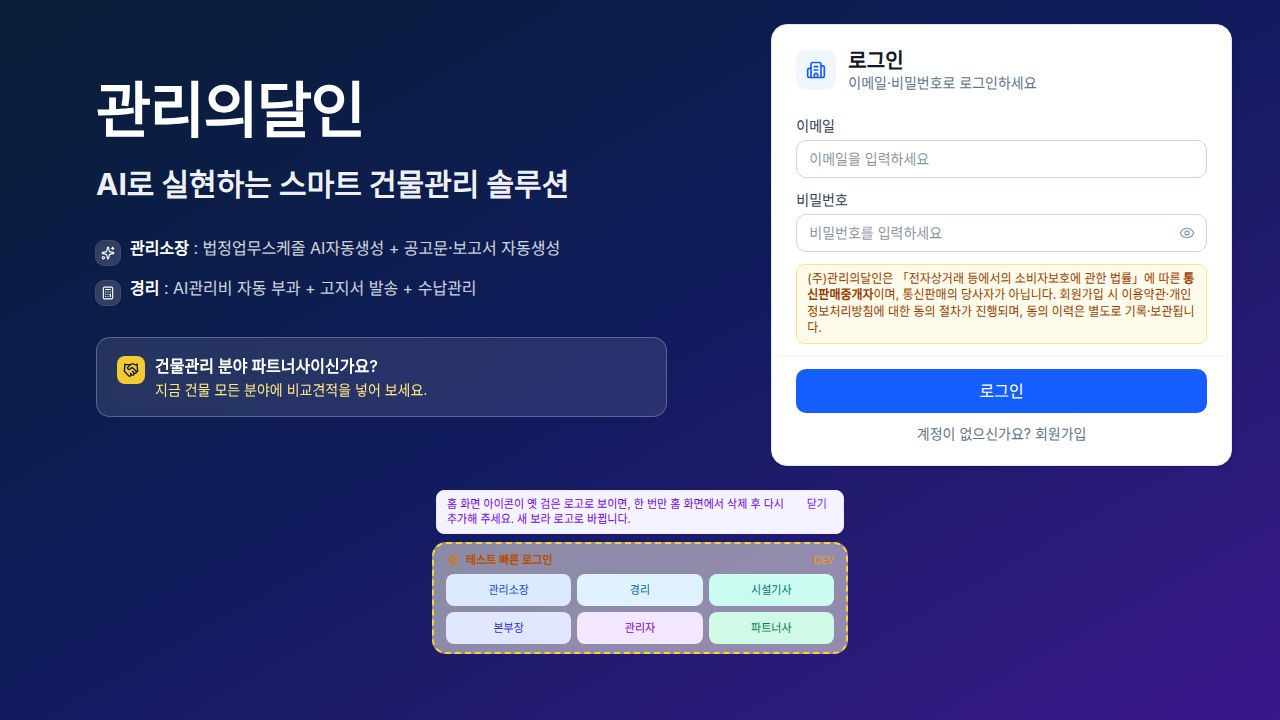
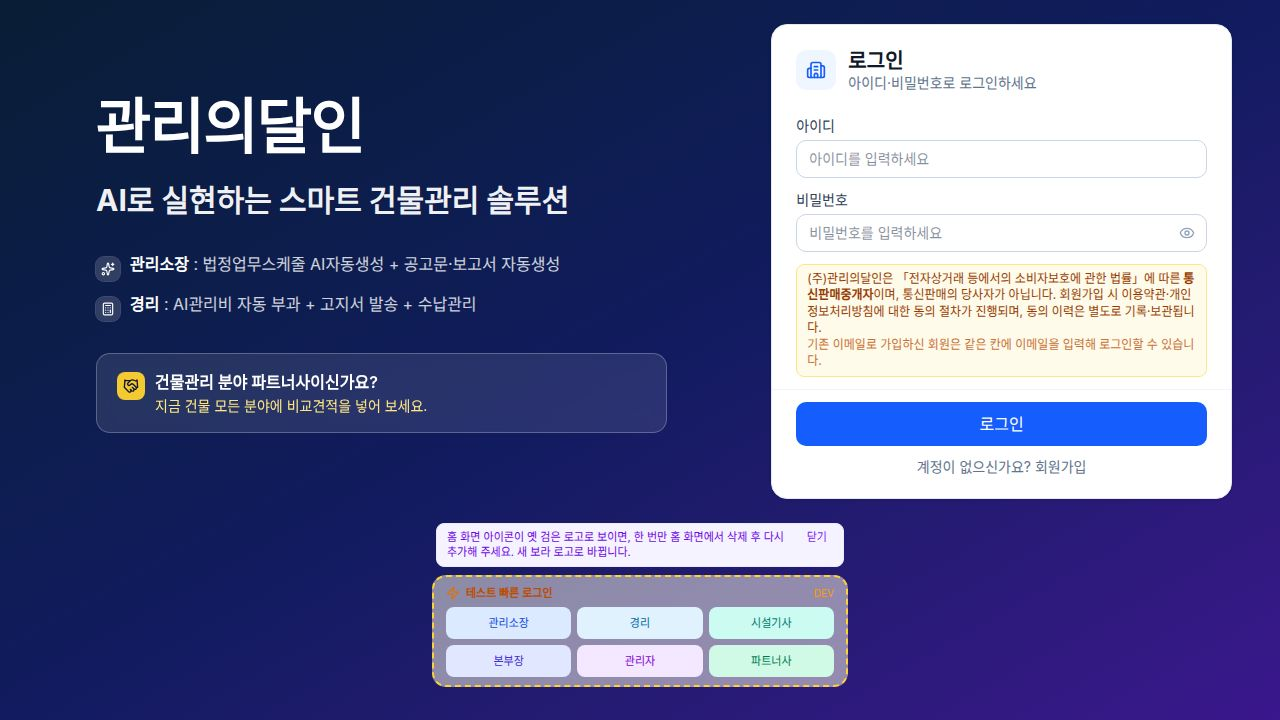
Fix printing layout for reports to show complete content
Update print styles to remove transforms and adjust positioning for report documents, ensuring no content is cut off at the top.

Replit-Commit-Author: Agent
Replit-Commit-Session-Id: 840ce35f-e45b-4201-8aa6-6bbf4aa4b130
Replit-Commit-Checkpoint-Type: full_checkpoint
Replit-Commit-Event-Id: 72542d6d-8fcc-475d-9fee-90820b76e3f7
Replit-Commit-Screenshot-Url: https://storage.googleapis.com/screenshot-production-us-central1/44e7f96e-f3b4-4946-b462-42ddb83bae96/840ce35f-e45b-4201-8aa6-6bbf4aa4b130/q0fdnVr
Replit-Helium-Checkpoint-Created: true

diff --git a/artifacts/manager-app/src/index.css b/artifacts/manager-app/src/index.css
@@ -338,6 +338,18 @@ h1, h2, h3, h4 {
     overflow: visible !important;
     background: white !important;
     padding: 0 !important;
+    height: auto !important;
+    width: auto !important;
+    margin: 0 !important;
+    position: static !important;
+    display: block !important;
+  }
+  .a4-document-frame > * {
+    transform: none !important;
+    width: auto !important;
+    height: auto !important;
+    margin: 0 !important;
+    padding: 0 !important;
   }
   .a4-document-actions {
     display: none !important;